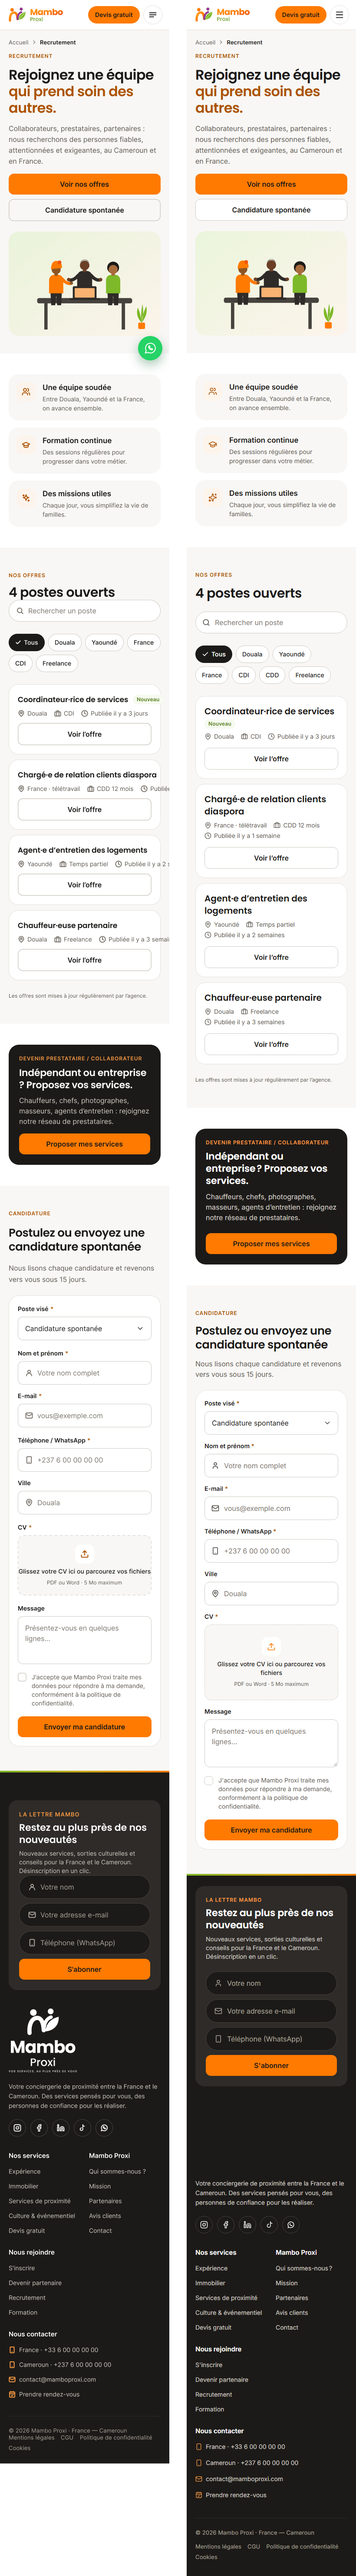
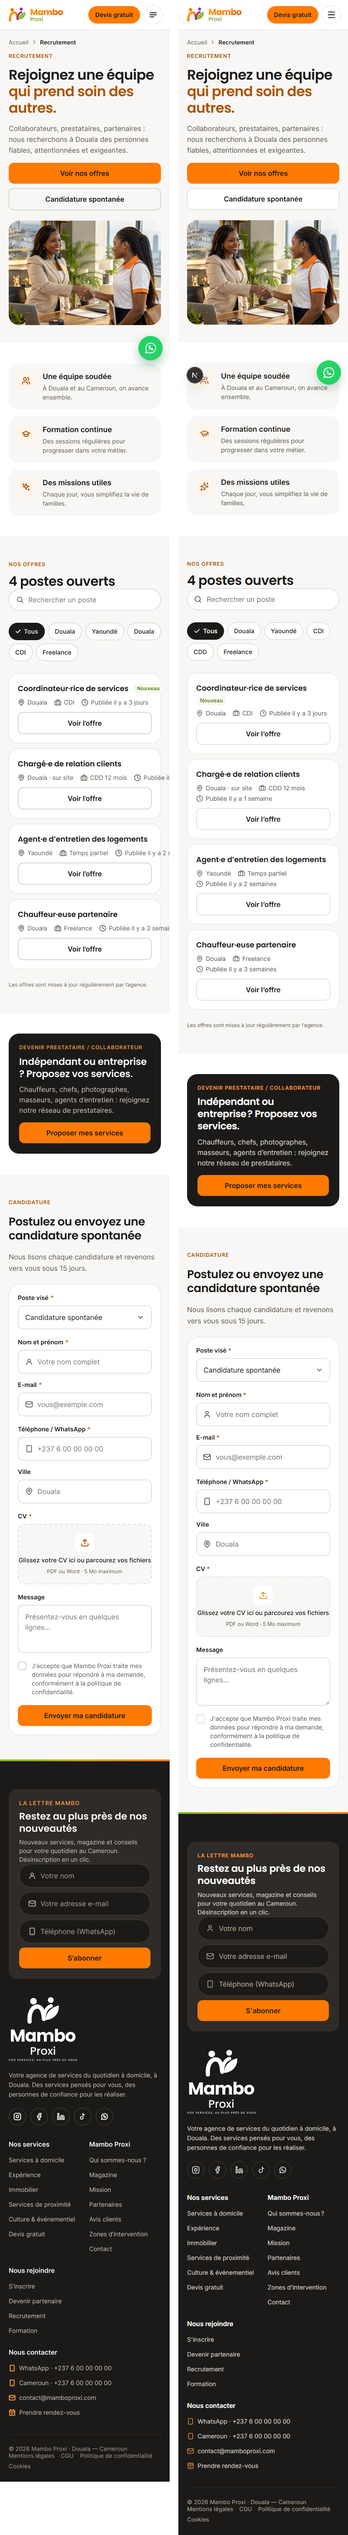
feat(recrutement): photo du héros, textes recentrés sur Douala, offre « Chargé·e de relation clients », version anglaise et offres en anglais

Changed region(s): [[0.0, 0.0, 1.0, 1.0], [0.8125, 0.9686, 0.875, 0.9998]]

diff --git a/src/mocks/handlers/jobs.ts b/src/mocks/handlers/jobs.ts
@@ -1,6 +1,6 @@
 import { http, HttpResponse } from 'msw';
 import type { JobOfferDetail } from '@/lib/api/schema';
-import { normalize } from '../data/catalogue';
+import { langOf, normalize } from '../data/catalogue';
 import { problem } from '../problem';
 
 const DAY = 24 * 60 * 60 * 1000;
@@ -47,28 +47,28 @@ export const jobs: JobOfferDetail[] = [
     expiresAt: null,
   },
   {
-    id: 'job_relation_diaspora',
-    slug: 'charge-e-relation-clients-diaspora',
-    title: 'Chargé·e de relation clients diaspora',
-    city: 'France · télétravail',
-    country: 'FR',
+    id: 'job_relation_clients',
+    slug: 'charge-e-relation-clients',
+    title: 'Chargé·e de relation clients',
+    city: 'Douala · sur site',
+    country: 'CM',
     contractType: 'CDD 12 mois',
-    summary: 'Vous accompagnez nos clients de la diaspora depuis la France.',
+    summary: 'Vous accompagnez nos clients depuis l’agence de Douala.',
     publishedAt: daysAgo(7),
     isNew: false,
     startDate: 'dès que possible',
     workingTime: 'temps plein',
-    locationLabel: 'France, en télétravail',
+    locationLabel: 'Douala, Cameroun, sur site',
     description:
-      'Depuis la France, vous êtes l’interlocuteur de nos clients de la diaspora : vous recueillez leurs besoins, les transmettez à l’agence et les tenez informés à chaque étape.',
+      'À l’agence de Douala, vous êtes l’interlocuteur de nos clients : vous recueillez leurs besoins, les transmettez à l’équipe de coordination et les tenez informés à chaque étape.',
     missions: [
       'Accueillir les demandes par téléphone, WhatsApp et e-mail',
-      'Qualifier les besoins et les transmettre à l’agence',
+      'Qualifier les besoins et les transmettre à la coordination',
       'Informer les clients de l’avancement de leurs demandes',
     ],
     profile: [
       'Expérience en relation client',
-      'Connaissance du Cameroun et de la diaspora',
+      'Bonne connaissance de Douala et de ses quartiers',
       'Excellente expression écrite et orale',
     ],
     benefits: BENEFITS,
@@ -124,13 +124,94 @@ export const jobs: JobOfferDetail[] = [
   },
 ];
 
+const BENEFITS_EN = ['A caring and committed team', 'Regular training', 'Meaningful work, serving families'];
+
+/** Offres en anglais (`?lang=en`), par offre : textes rédigés pour le site. */
+const EN: Record<string, Partial<JobOfferDetail>> = {
+  'coordinateur-rice-de-services': {
+    title: 'Service coordinator',
+    city: 'Douala',
+    contractType: 'Permanent',
+    summary: 'You coordinate our clients’ services and our network of providers in Douala.',
+    startDate: 'January 2027',
+    workingTime: 'full time',
+    locationLabel: 'Douala, Cameroon',
+    description:
+      'At the heart of the Douala agency, you coordinate our clients’ requests, from the first enquiry to the follow-up of the service, with our network of providers.',
+    missions: [
+      'Review requests and prepare quotes',
+      'Select and brief service providers',
+      'Follow up on each service and keep the client informed',
+      'Keep records up to date in the management tool',
+    ],
+    profile: [
+      'Experience in customer relations or coordination',
+      'Strong organisational skills and a sense of service',
+      'Good written and spoken French',
+      'Comfortable with everyday digital tools',
+    ],
+  },
+  'charge-e-relation-clients': {
+    title: 'Customer relations officer',
+    city: 'Douala · on site',
+    contractType: '12-month fixed-term',
+    summary: 'You look after our clients from the Douala agency.',
+    startDate: 'as soon as possible',
+    workingTime: 'full time',
+    locationLabel: 'Douala, Cameroon, on site',
+    description:
+      'At the Douala agency, you are our clients’ point of contact: you gather their needs, pass them on to the coordination team and keep them informed at every step.',
+    missions: [
+      'Handle requests by phone, WhatsApp and e-mail',
+      'Qualify needs and pass them on to the coordination team',
+      'Keep clients informed of the progress of their requests',
+    ],
+    profile: [
+      'Experience in customer relations',
+      'Good knowledge of Douala and its neighbourhoods',
+      'Excellent written and spoken communication',
+    ],
+  },
+  'agent-e-entretien-logements': {
+    title: 'Home cleaning agent',
+    contractType: 'Part time',
+    summary: 'You clean and look after the homes managed by the agency.',
+    startDate: 'November 2026',
+    workingTime: 'part time',
+    locationLabel: 'Yaoundé, Cameroon',
+    description:
+      'You carry out regular cleaning of the homes managed by the agency in Yaoundé, between two lets or at the owners’ request.',
+    missions: [
+      'Clean and prepare the homes',
+      'Report any repairs needed',
+      'Check inventories with the agency',
+    ],
+    profile: ['Experience in cleaning or hospitality', 'Thorough and discreet', 'Punctual'],
+  },
+  'chauffeur-euse-partenaire': {
+    title: 'Partner driver',
+    summary: 'You provide transfers and chauffeur services for our clients.',
+    locationLabel: 'Douala, Cameroon',
+    description:
+      'With your own vehicle or one of our partners’ vehicles, you provide the airport transfers and chauffeur services our clients book.',
+    missions: [
+      'Welcome clients at the airport',
+      'Drive clients on their trips and bookings',
+      'Keep the vehicle clean and well maintained',
+    ],
+    profile: ['Driving licence held for more than 3 years', 'Good knowledge of Douala', 'A sense of service'],
+  },
+};
+
+const jobsEn: JobOfferDetail[] = jobs.map((job) => ({ ...job, ...EN[job.slug], benefits: BENEFITS_EN }));
+
 export const jobHandlers = [
   http.get('*/v1/jobs', ({ request }) => {
     const query = new URL(request.url).searchParams;
     const city = query.get('city');
     const contract = query.get('contract');
     const search = query.get('q') ? normalize(query.get('q') ?? '') : null;
-    const list = jobs
+    const list = (langOf(request) === 'en' ? jobsEn : jobs)
       .filter(
         (job) =>
           (!city || job.city.startsWith(city)) &&
@@ -151,8 +232,8 @@ export const jobHandlers = [
     return HttpResponse.json(list);
   }),
 
-  http.get('*/v1/jobs/:slug', ({ params }) => {
-    const job = jobs.find((item) => item.slug === params.slug);
+  http.get('*/v1/jobs/:slug', ({ params, request }) => {
+    const job = (langOf(request) === 'en' ? jobsEn : jobs).find((item) => item.slug === params.slug);
     return job ? HttpResponse.json(job) : problem(404, "Cette offre n'existe pas ou n'est plus publiée.");
   }),
 ];

diff --git a/src/mocks/data/pages.ts b/src/mocks/data/pages.ts
@@ -4,8 +4,6 @@ import type { Page, Visual } from '@/lib/api/schema';
  * Pages éditoriales simulées, relevées dans les maquettes (qa/inventory/site). Elles complètent les exemples du contrat
  * (accueil, services) et servent de référence pour les données d'amorçage de l'API.
  */
-const visual = (illustration: Visual['illustration']): Visual => ({ illustration, image: null, alt: '' });
-
 /** Photo des maquettes (`public/photos/`), avec l'illustration de repli. */
 const photo = (
   illustration: Visual['illustration'],
@@ -1136,9 +1134,9 @@ const recrutement: Page = {
   updatedAt: UPDATED_AT,
   isPreview: false,
   seo: {
-    title: 'Recrutement : rejoignez MAMBO Proxi au Cameroun et en France',
+    title: 'Recrutement : rejoignez MAMBO Proxi à Douala',
     description:
-      'Collaborateurs, prestataires, partenaires : nous recherchons des personnes fiables, attentionnées et exigeantes, au Cameroun et en France.',
+      'Collaborateurs, prestataires, partenaires : nous recherchons à Douala des personnes fiables, attentionnées et exigeantes.',
     ogImageUrl: null,
     noindex: false,
   },
@@ -1150,8 +1148,14 @@ const recrutement: Page = {
       variant: 'page',
       eyebrow: 'Recrutement',
       title: 'Rejoignez une équipe ==qui prend soin des autres.==',
-      lead: 'Collaborateurs, prestataires, partenaires : nous recherchons des personnes fiables, attentionnées et exigeantes, au Cameroun et en France.',
-      visual: visual('equipe'),
+      lead: 'Collaborateurs, prestataires, partenaires : nous recherchons à Douala des personnes fiables, attentionnées et exigeantes.',
+      visual: photo(
+        'equipe',
+        'recrut-hero',
+        1280,
+        960,
+        'Une responsable de l’agence serre la main d’une intervenante en tenue Mambo Proxi.',
+      ),
       primaryCta: { label: 'Voir nos offres', href: '#offres', external: false },
       secondaryCta: { label: 'Candidature spontanée', href: '#candidature', external: false },
       showWhatsapp: false,
@@ -1167,7 +1171,7 @@ const recrutement: Page = {
         {
           icon: 'Users',
           title: 'Une équipe soudée',
-          text: 'Entre Douala, Yaoundé et la France, on avance ensemble.',
+          text: 'À Douala et au Cameroun, on avance ensemble.',
         },
         {
           icon: 'GraduationCap',
@@ -1212,6 +1216,97 @@ const recrutement: Page = {
       eyebrow: 'Candidature',
       title: 'Postulez ou envoyez une candidature spontanée',
       lead: 'Nous lisons chaque candidature et revenons vers vous sous 15 jours.',
+    },
+  ],
+};
+
+/** Recrutement en anglais (`?lang=en`) : textes rédigés pour le site. */
+const recrutementEn: Page = {
+  ...recrutement,
+  title: 'Careers',
+  seo: {
+    title: 'Careers: join MAMBO Proxi in Douala',
+    description:
+      'Employees, service providers, partners: we are looking for reliable, caring and demanding people in Douala.',
+    ogImageUrl: null,
+    noindex: false,
+  },
+  sections: [
+    {
+      id: 'hero',
+      type: 'hero',
+      enabled: true,
+      variant: 'page',
+      eyebrow: 'Careers',
+      title: 'Join a team ==that takes care of others.==',
+      lead: 'Employees, service providers, partners: we are looking for reliable, caring and demanding people in Douala.',
+      visual: photo(
+        'equipe',
+        'recrut-hero',
+        1280,
+        960,
+        'An agency manager shakes hands with a service provider in a Mambo Proxi uniform.',
+      ),
+      primaryCta: { label: 'See our openings', href: '#offres', external: false },
+      secondaryCta: { label: 'Open application', href: '#candidature', external: false },
+      showWhatsapp: false,
+    },
+    {
+      id: 'atouts',
+      type: 'cardGrid',
+      enabled: true,
+      tone: 'light',
+      layout: 'horizontal',
+      columns: 3,
+      items: [
+        {
+          icon: 'Users',
+          title: 'A close-knit team',
+          text: 'In Douala and across Cameroon, we move forward together.',
+        },
+        {
+          icon: 'GraduationCap',
+          title: 'Ongoing training',
+          text: 'Regular sessions to grow in your profession.',
+        },
+        {
+          icon: 'Sparkles',
+          title: 'Meaningful work',
+          text: 'Every day, you make life easier for families.',
+        },
+      ],
+    },
+    {
+      id: 'offres',
+      type: 'dynamic',
+      enabled: true,
+      anchor: 'offres',
+      tone: 'muted',
+      source: 'jobs-list',
+      eyebrow: 'Our openings',
+      note: 'Openings are updated regularly by the agency.',
+    },
+    {
+      id: 'prestataire',
+      type: 'ctaBand',
+      enabled: true,
+      tone: 'dark',
+      eyebrow: 'Become a service provider / partner',
+      title: 'Freelancer or company? Offer your services.',
+      text: 'Drivers, chefs, photographers, massage therapists, cleaners: join our network of service providers.',
+      primaryCta: { label: 'Offer my services', href: '/partenaires#formulaire', external: false },
+      showWhatsapp: false,
+    },
+    {
+      id: 'candidature',
+      type: 'dynamic',
+      enabled: true,
+      anchor: 'candidature',
+      tone: 'muted',
+      source: 'application-form',
+      eyebrow: 'Apply',
+      title: 'Apply for a position or send an open application',
+      lead: 'We read every application and get back to you within 15 days.',
     },
   ],
 };
@@ -1681,6 +1776,7 @@ export const pagesEn: Partial<Record<Page['key'], Page>> = {
   mission: missionEn,
   partenaires: partenairesEn,
   formation: formationEn,
+  recrutement: recrutementEn,
   magazine: magazineEn,
   'zones-d-intervention': zonesEn,
 };
